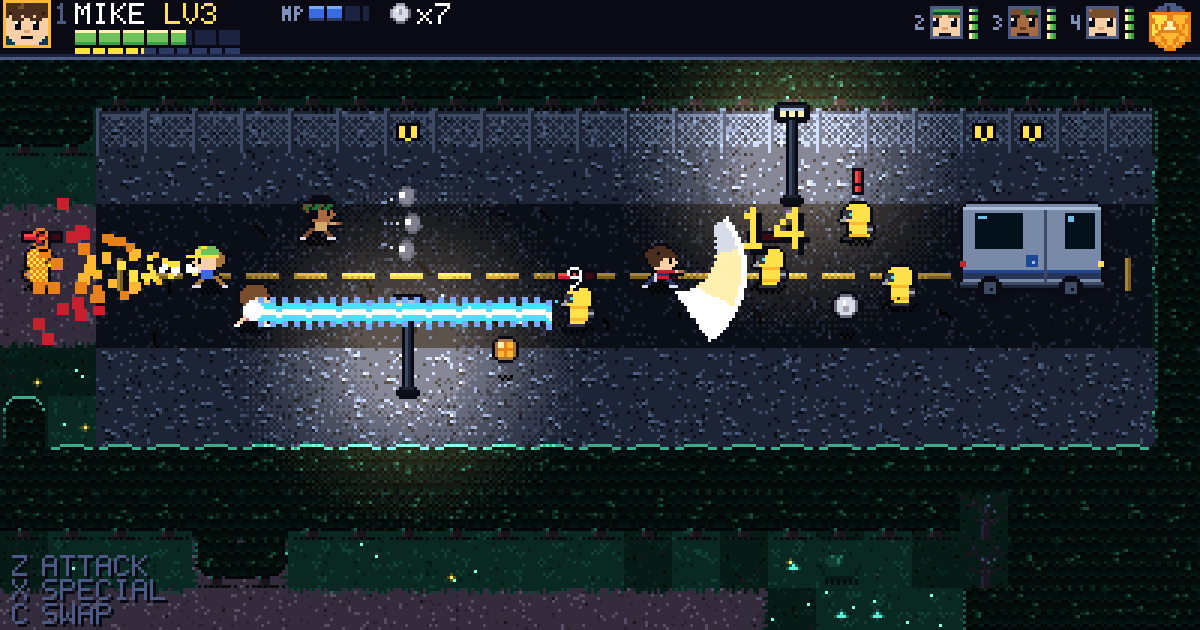
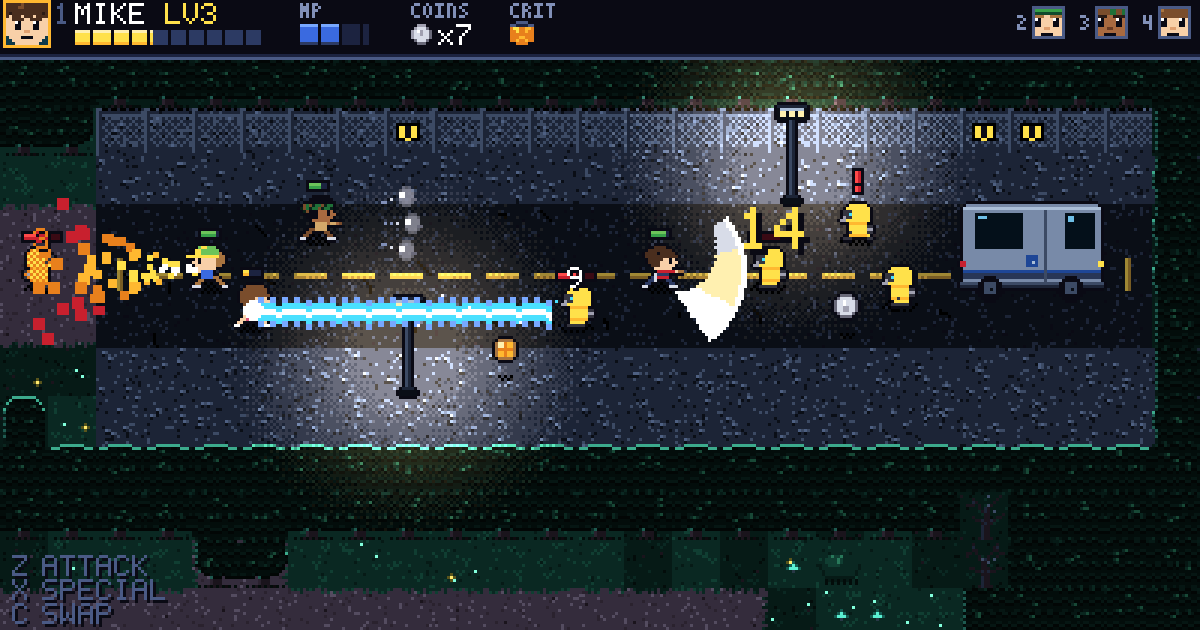
Redraw the README fight card with the Captions header and the HP bars over the heroes
The card now shows the XP notches and the MP, COINS and CRIT columns, with the bench at the right. social.html gives each hero the bar the game draws over their head, at different health so green and yellow both show. The other cards and the icon come out byte for byte the same.

diff --git a/social.html b/social.html
@@ -288,7 +288,13 @@ function fightCard(ctx, w, h) {
     items: [{ kind: 'quarter', x: 650, y: low + 2, t: 0 }, { kind: 'eggo', x: 536, y: ty(6) - 2, t: 0 }],
   };
   view.hud = { ...base.hud, quarters: 7, burst: 0.8, burstReady: false, swapReady: 1 };
-  view.hud.party = view.hud.party.map((p) => ({ ...p, hp: Math.round(p.hpMax * (p.active ? 0.75 : 0.9)), mp: Math.round(p.mpMax * 0.6), xp: Math.round(p.xpNext * 0.4) }));
+  // Health is the bar over each hero's head, not the strip. Mike is hurt a little and Eleven is past half, so green and yellow both show.
+  const HEALTH = { mike: 0.75, dustin: 0.9, lucas: 0.6, eleven: 0.4 };
+  view.hud.party = view.hud.party.map((p) => ({ ...p, hp: Math.round(p.hpMax * HEALTH[p.id]), mp: Math.round(p.mpMax * 0.6), xp: Math.round(p.xpNext * 0.4) }));
+  for (const a of view.actors) {
+    const m = a.kind === 'hero' ? view.hud.party.find((p) => p.id === a.id) : null;
+    if (m) a.bar = { hp: m.hp, hpMax: m.hpMax };
+  }
 
   // The world: the camera puts the road a third of the way down, under the HUD.
   const camX = stage.wPx - w, camY = 0;
